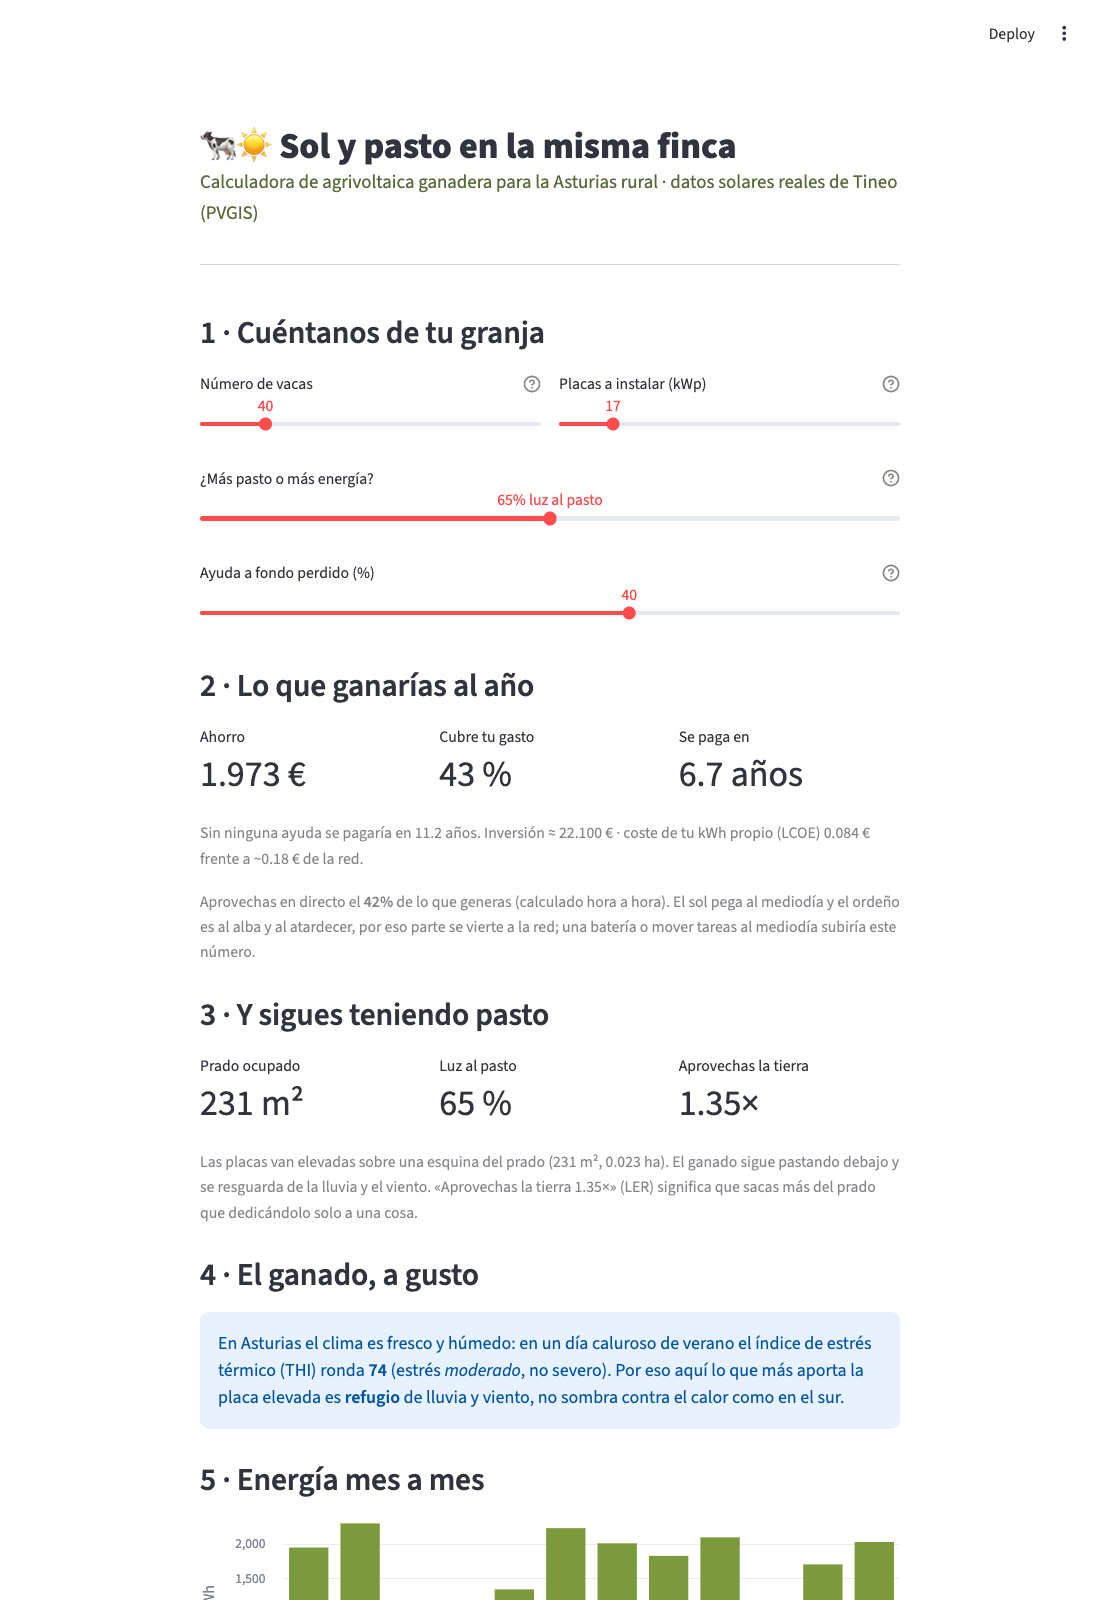
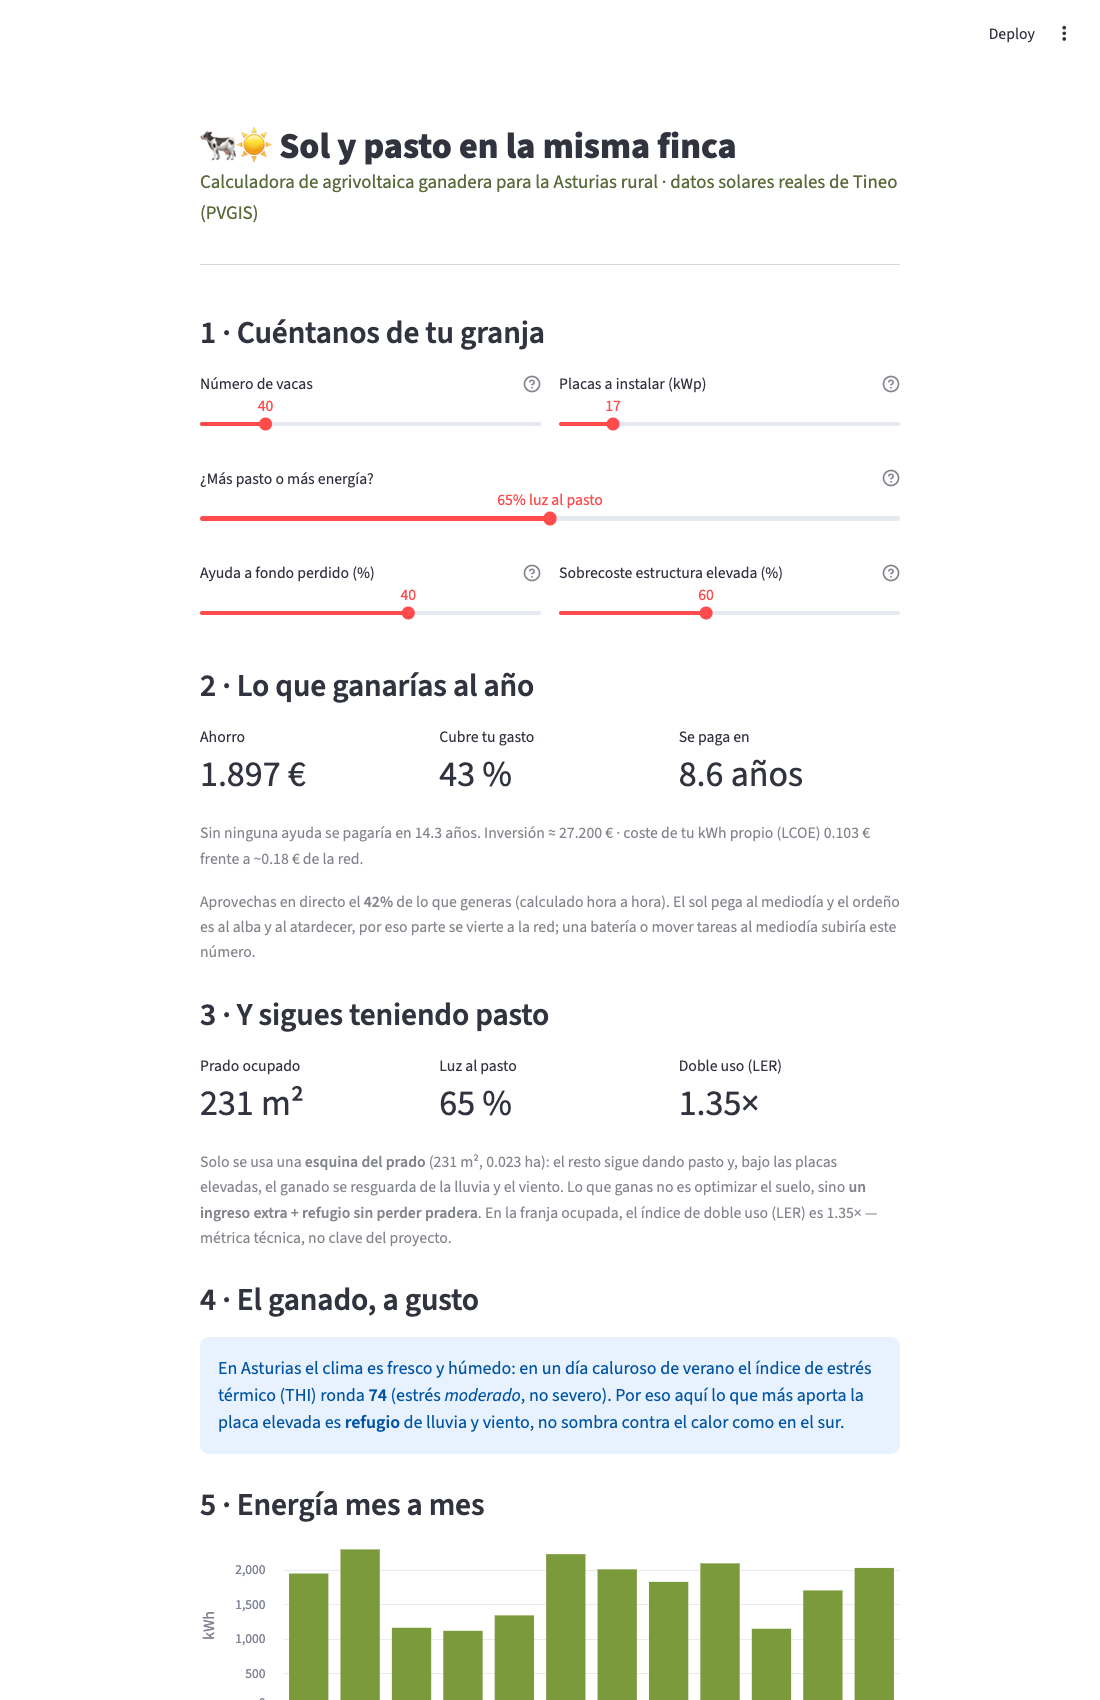
It-3b: pase de honestidad (correcciones de revisión)
- CAPEX de estructura agrivoltaica: deja de presentarse como dato citado (+30%) y
  pasa a ser una asunción explícita (+60% por defecto, estructura a altura de
  vacuno) ajustable con un control de sensibilidad. El payback honesto cambia a
  ~8,6 años con ayuda / 14,3 sin ayuda.
- Se corrige la afirmación circular "validado contra PVGIS <1%": la POA se toma de
  PVGIS y k_system está ajustado a su modelo de pérdidas, así que el acuerdo es en
  parte por construcción. Reformulado como "modelo de pérdidas coherente con PVGIS"
  en la app, el informe y el test (renombrado a coherencia, no validación).
- Reposicionado el LER (1,35x sobre 231 m² es marginal): el mensaje pasa a "esquina
  libre del prado + refugio + ingreso extra", con el LER como métrica secundaria.
- Verificación móvil real: renderiza accesible; el blanco anterior era un artefacto
  de doble sesión simultánea contra el mismo servidor Streamlit, no un fallo.

diff --git a/app/ui/app.py b/app/ui/app.py
@@ -57,13 +57,20 @@ gcr = st.select_slider(
     format_func=lambda g: f"{int((1-g)*100)}% luz al pasto",
     help="Paneles más juntos = más energía pero menos luz al pasto.",
 )
-ayuda_pct = st.slider("Ayuda a fondo perdido (%)", 0, 65, 40, step=5,
-                      help="Subvención posible (modernización agraria / upside PAC). Sin ella también se calcula.")
+col_c, col_d = st.columns(2)
+with col_c:
+    ayuda_pct = st.slider("Ayuda a fondo perdido (%)", 0, 65, 40, step=5,
+                          help="Subvención posible (modernización agraria / upside PAC). Sin ella también se calcula.")
+with col_d:
+    premium_pct = st.slider("Sobrecoste estructura elevada (%)", 30, 100, 60, step=5,
+                            help="ASUNCIÓN, no dato: encarecer la pérgola alta para vacuno. "
+                                 "Mueve este control para ver cuánto cambia el payback.")
 
 # ---------------- cálculo ----------------
 ag = evaluar_por_potencia(kwp, gcr, ubic)
 sc = simular_autoconsumo(kwp, consumo_granja(vacas), ubic)   # autoconsumo hora a hora
 ec = evaluar_economia(kwp, ag.energia_anual_kwh, vacas, ayuda_frac=ayuda_pct / 100,
+                      premium=1 + premium_pct / 100,
                       fraccion_autoconsumo_override=sc.fraccion_autoconsumo)
 
 # ---------------- 2 · Lo que ganas ----------------
@@ -85,11 +92,13 @@ st.subheader("3 · Y sigues teniendo pasto")
 d1, d2, d3 = st.columns(3)
 d1.metric("Prado ocupado", f"{ag.area_terreno_m2:,.0f} m²".replace(",", "."))
 d2.metric("Luz al pasto", f"{ag.transmitancia_pasto*100:,.0f} %")
-d3.metric("Aprovechas la tierra", f"{ag.ler:.2f}×")
-st.caption(f"Las placas van elevadas sobre una esquina del prado ({ag.area_terreno_m2:.0f} m², "
-           f"{ag.area_terreno_m2/10000:.3f} ha). El ganado sigue pastando debajo y se "
-           f"resguarda de la lluvia y el viento. «Aprovechas la tierra {ag.ler:.2f}×» "
-           f"(LER) significa que sacas más del prado que dedicándolo solo a una cosa.")
+d3.metric("Doble uso (LER)", f"{ag.ler:.2f}×")
+st.caption(f"Solo se usa una **esquina del prado** ({ag.area_terreno_m2:.0f} m², "
+           f"{ag.area_terreno_m2/10000:.3f} ha): el resto sigue dando pasto y, bajo las placas "
+           f"elevadas, el ganado se resguarda de la lluvia y el viento. Lo que ganas no es "
+           f"optimizar el suelo, sino **un ingreso extra + refugio sin perder pradera**. "
+           f"En la franja ocupada, el índice de doble uso (LER) es {ag.ler:.2f}× — métrica "
+           f"técnica, no clave del proyecto.")
 
 # ---------------- 4 · El ganado, a gusto ----------------
 valor_thi = thi(ASTURIAS_VERANO_T, ASTURIAS_VERANO_RH)
@@ -125,6 +134,8 @@ st.download_button("📄 Descargar informe imprimible (HTML)",
                    mime="text/html",
                    help="Ábrelo en el navegador e imprímelo o guárdalo en PDF.")
 
-st.caption("Fuentes: PVGIS v5.2 (recurso solar Tineo) · consumo 516 kWh/vaca·año (estudio "
+st.caption("Fuentes: recurso solar de PVGIS v5.2 (Tineo) · consumo 516 kWh/vaca·año (estudio "
            "Castilla y León) · CAPEX FV 800-1.400 €/kWp (mercado ES 2026) · THI NRC 1971. "
-           "Modelo validado contra PVGIS (<1% de desvío). Versión It-3.")
+           "El modelo físico de pérdidas es coherente con el de PVGIS (mismo recurso, mismo "
+           "orden de pérdidas). El sobrecoste de la estructura elevada es una asunción "
+           "ajustable, no un dato. Versión It-3.")

diff --git a/app/core/economics.py b/app/core/economics.py
@@ -7,17 +7,22 @@ Fuentes de los datos (ES 2026):
 - Consumo eléctrico granja vacuno lechero: 516 kWh/vaca·año (estudio Castilla y León,
   scielo S0004-05922013000300013; ~51 kWh por 1.000 kg de leche).
 - CAPEX FV autoconsumo: 800-1.400 €/kWp (Cambio Energético 2026); base media usada 1.000.
-- Sobrecoste estructura agrivoltaica elevada: +30 % (pérgola alta, cargas de viento).
 - Precio compra electricidad agraria/PVPC ~0,18 €/kWh; excedente compensado ~0,06 €/kWh.
+
+ASUNCIÓN (no citada, expuesta como sensibilidad en la UI): el sobrecoste de la estructura
+agrivoltaica ELEVADA a altura de vacuno (pérgola alta ~4 m, cargas de viento, protección
+frente al ganado) NO está tomado de una fuente. La literatura sitúa el premium entre +50 %
+y +100 % sobre ground-mount; aquí el default es +60 % y el usuario lo ajusta con un control
+de sensibilidad. Es el número que más afecta al payback -> se trata como variable, no dato.
 """
 from __future__ import annotations
 
 from dataclasses import dataclass
 
-# --- Defaults citados (editables en la UI) ---
-KWH_POR_VACA_ANIO = 516.0       # consumo eléctrico medio por vaca productora
-CAPEX_BASE_KWP = 1000.0         # €/kWp instalación FV estándar
-PREMIUM_AGRIVOLTAICO = 1.30     # sobrecoste estructura elevada sobre pradera
+# --- Defaults (editables en la UI) ---
+KWH_POR_VACA_ANIO = 516.0       # consumo eléctrico medio por vaca productora (citado)
+CAPEX_BASE_KWP = 1000.0         # €/kWp instalación FV estándar (citado)
+PREMIUM_AGRIVOLTAICO = 1.60     # ASUNCIÓN: sobrecoste estructura elevada (rango 1,3-2,0)
 OPEX_FRAC_CAPEX = 0.015         # O&M anual como fracción del CAPEX
 PRECIO_COMPRA = 0.18            # €/kWh
 PRECIO_EXCEDENTE = 0.06         # €/kWh

diff --git a/app/core/informe.py b/app/core/informe.py
@@ -78,16 +78,18 @@ def informe_html(d: DatosInforme) -> str:
 <div class="kpi">Prado ocupado<b>{_es(d.area_m2)} m²</b></div>
 <div class="kpi">Luz al pasto<b>{_es(d.luz_pasto_pct)} %</b></div>
 <div class="kpi">Aprovechas la tierra<b>{_es(d.ler,2)}×</b></div>
-<p>Las placas van elevadas sobre una esquina del prado. El ganado pasta debajo y se
- resguarda de la lluvia y el viento. El índice de aprovechamiento del suelo (LER) de
- {_es(d.ler,2)}× indica que la finca rinde más con el doble uso que dedicada a una sola cosa.</p>
+<p>Solo se ocupa una esquina del prado: el resto sigue dando pasto y, bajo las placas
+ elevadas, el ganado se resguarda de la lluvia y el viento. La ventaja no es optimizar el
+ suelo sino un ingreso extra y refugio sin perder pradera. En la franja ocupada, el índice
+ de doble uso (LER) es {_es(d.ler,2)}× (métrica técnica, no clave del proyecto).</p>
 
 <h2>El ganado, a gusto</h2>
 <p>En el verano asturiano el índice de estrés térmico (THI) ronda {_es(d.thi)}
  (estrés {d.thi_nivel}, no severo). El beneficio principal de la placa elevada aquí es
  el <b>refugio</b> de lluvia y viento, no la sombra contra el calor.</p>
 
-<p class="src">Fuentes: PVGIS v5.2 (recurso solar) · consumo 516 kWh/vaca·año (estudio
+<p class="src">Fuentes: recurso solar de PVGIS v5.2 · consumo 516 kWh/vaca·año (estudio
  Castilla y León) · CAPEX FV 800-1.400 €/kWp (mercado ES 2026) · THI NRC 1971.
- Modelo físico validado contra PVGIS (&lt;1 % de desvío).</p>
+ Modelo de pérdidas coherente con PVGIS. El sobrecoste de la estructura elevada es una
+ asunción ajustable, no un dato.</p>
 </body></html>"""

diff --git a/tests/test_solar.py b/tests/test_solar.py
@@ -16,10 +16,12 @@ def test_yield_asturias_en_rango_plausible():
     assert 1150 < r.yield_kwh_kwp < 1280, r.yield_kwh_kwp
 
 
-def test_cross_validacion_contra_pvgis():
-    """El modelo físico propio debe coincidir con PVGIS v5.2 dentro de ±5 %.
+def test_coherencia_con_pvgis():
+    """El yield del modelo debe quedar dentro de ±5 % del de PVGIS v5.2.
 
-    Cross-validación contra fuente autoritativa = credibilidad de ingeniería.
+    NO es validación independiente: la POA se toma de PVGIS y k_system está ajustado
+    al orden de pérdidas de PVGIS (14 %), así que el acuerdo es en parte por construcción.
+    Sirve como guard de regresión y como chequeo de coherencia, no como prueba de exactitud.
     """
     r = produccion_fv(1.0)
     desvio = abs(r.yield_kwh_kwp - PVGIS_YIELD_REF) / PVGIS_YIELD_REF

diff --git a/docs/BUILD-LOG.md b/docs/BUILD-LOG.md
@@ -47,15 +47,26 @@ Registro vivo del loop autopautado. Cada entrada = un estado commiteado y revisa
       `docs/screenshots/desktop.png`) + informe ✅ (`informe.png`). Accesible: titulares
       grandes, español llano, honesto.
 - [x] App It-3 + 37 tests verde. Commit.
-- [ ] Móvil: captura salió en blanco (artefacto timing headless en viewport estrecho, no
-      fallo confirmado). PENDIENTE verificación móvil real.
+- [x] **Móvil verificado** (`docs/screenshots/movil.png`): renderiza accesible (columna única,
+      texto grande). El blanco previo era artefacto MULTI-SESIÓN (2 páginas al mismo Streamlit
+      → 2ª sesión vacía), no bug responsive. Captura en browser fresco = PASS.
 - [ ] Selector de ubicación (varios concejos)→PVGIS. Diferido (opcional).
 
-### It-4 (gated — esperar OK Pablo)
-- [ ] Llamar a advisor antes de empezar.
-- [ ] Memoria de proyecto para la beca (draft escribible sin Pablo).
-- [ ] README con capturas.
-- [ ] **Push a GitHub** (GATED, esperar OK explícito de Pablo).
+### It-3b — pase de honestidad (correcciones advisor)
+- [x] **CAPEX premium = ASUNCIÓN, no dato**: estructura altura-vacuno real +50-100%, no +30%.
+      Default subido a +60% y EXPUESTO como slider de sensibilidad. Headline honesto cambia:
+      ahorro 1.897 €/año, payback **8,6 años con ayuda / 14,3 sin** (antes 6,7/11,2), LCOE 0,103.
+- [x] **"Validado <1% vs PVGIS" era circular** (POA tomada de PVGIS + k_system ajustado a su
+      modelo) → reescrito a "modelo de pérdidas coherente con PVGIS" en app, informe y test.
+- [x] **LER 1,35× repositionado**: hueco en 231 m²; ahora se vende "esquina libre + refugio +
+      ingreso extra", LER como métrica técnica secundaria. App + informe.
+- [x] 37 tests verde. Commit.
+
+### It-4 — HOLD (terminus esperar-a-Pablo; advisor: NO iterar autónomo más)
+- [ ] **GATE 1 — confirmar idea A** (sin confirmar tras 3 iter; no escribir memoria a ciegas).
+- [ ] **GATE 2 — conseguir las BASES reales de la convocatoria** (nunca verificadas, todo de
+      memoria; formato/criterios/entregable desconocidos). Probablemente necesita a Pablo.
+- [ ] Solo entonces: memoria de beca + README con capturas + push GitHub (GATED).
 
 ## Checkpoints para Pablo (revisar cuando vuelva)
 - ¿Idea A correcta? (si no, revertir barato — spec §0).